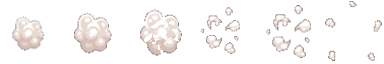
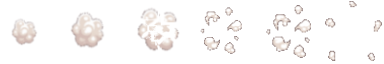
added smoke on higher jump impact

diff --git a/Web/Scripts/app/Demo/MovementController.ts b/Web/Scripts/app/Demo/MovementController.ts
@@ -1,4 +1,4 @@
-import { AnimatedSprite, AnimationSequence } from "app/_engine/AnimatedSprite";
+import { AnimatedSprite } from "app/_engine/AnimatedSprite";
 import { KeyboardMapper } from "app/_engine/KeyboardMapper";
 import { MovementState } from "./MovementState";
 import { WorldP2 } from "./WorldP2";
@@ -8,7 +8,7 @@ export class MovementController {
 
     private readonly ANIMATION_FPS = 10;
     private readonly VELOCITY = 150;
-    private readonly JUMP_FORCE = 17000;
+    private readonly JUMP_FORCE = 16000;
     private nextJumpAllowed: number = 0;
 
     private world: WorldP2;
@@ -17,6 +17,7 @@ export class MovementController {
     private kbd = new KeyboardMapper();
 
     private isRunning = false;
+    private isJumping = false;
 
     constructor(world: WorldP2, hero: AnimatedSprite) {
         this.world = world;
@@ -24,11 +25,11 @@ export class MovementController {
     }
 
     public get IsJumping() {
-        return Math.abs(this.world.player.velocity[1]) > 0.001 && this.world.playerContacts.length === 0;
+        return this.isJumping;
     }
 
     public get CanJump(): boolean {
-        return !this.IsJumping && this.nextJumpAllowed < performance.now();
+        return !this.isJumping && this.nextJumpAllowed < performance.now();
     }
 
     public get IsRunning() {
@@ -39,28 +40,15 @@ export class MovementController {
         return this.movementState;
     }
 
-    public MovementVelocity(): number {
-        var direction = 0;
-        if (this.movementState === MovementState.Left || this.movementState === MovementState.JumpLeft) {
-            direction = -1;
-        } else if (this.movementState === MovementState.Right || this.movementState === MovementState.JumpRight) {
-            direction = 1;
-        }
-
-        var velocity = direction * this.VELOCITY * (this.IsRunning ? 2 : 1.0);
-        return velocity;
-    }
-    
-
     public StartJump(direction: MovementState.JumpLeft | MovementState.JumpRight | MovementState.JumpUp): void {
         var forceVector: Array<number>;
 
         if (direction === MovementState.JumpUp) {
             forceVector = [0, this.JUMP_FORCE];
         } else if (direction === MovementState.JumpLeft) {
-            forceVector = [-this.JUMP_FORCE * 0.15, this.JUMP_FORCE];
+            forceVector = [-this.JUMP_FORCE * 0.125, this.JUMP_FORCE];
         } else if (direction === MovementState.JumpRight) {
-            forceVector = [this.JUMP_FORCE * 0.15, this.JUMP_FORCE];
+            forceVector = [this.JUMP_FORCE * 0.125, this.JUMP_FORCE];
         }
         this.world.player.applyImpulse(forceVector);
         this.nextJumpAllowed = performance.now() + 450;
@@ -78,20 +66,16 @@ export class MovementController {
         const KEY_UP: number = 38;
         const SPACE: number = 32;
 
+        this.isJumping = Math.abs(this.world.player.velocity[1]) > 0.001 && this.world.playerContacts.length === 0;
 
         //  no movement while jumping
-        if (this.IsJumping) {
+        if (this.isJumping) {
             //console.log("isJumping!");
             return;
         } else {
             //  calculate the horizontal velocity
-            var v = this.MovementVelocity();
+            var v = this.calcMovementVelocity();
             this.world.player.velocity[0] = v;
-
-            //  if we where jumping check if jump has ended
-            if (this.movementState > MovementState.Idle) {
-                console.log("jup end!");
-            }
         }
 
         var newState: MovementState = MovementState.Idle;
@@ -159,5 +143,17 @@ export class MovementController {
         //  update new states
         this.movementState = newState;
         this.isRunning = newIsRunning;
+    }
+
+    private calcMovementVelocity(): number {
+        var direction = 0;
+        if (this.movementState === MovementState.Left || this.movementState === MovementState.JumpLeft) {
+            direction = -1;
+        } else if (this.movementState === MovementState.Right || this.movementState === MovementState.JumpRight) {
+            direction = 1;
+        }
+
+        var velocity = direction * this.VELOCITY * (this.IsRunning ? 2 : 1.0);
+        return velocity;
     }
 }

diff --git a/Web/Scripts/app/Demo/WorldP2.ts b/Web/Scripts/app/Demo/WorldP2.ts
@@ -70,7 +70,7 @@ export class WorldP2 {
         this.world.solver.iterations = 25;
         //this.world.solver.tolerance = 0.00002;
         this.world.on("beginContact", this.beginContact, this);
-        this.world.on("endContact", this.endContact, this);
+        this.world.on("endContact", this.endContact, this);        
     }
 
     /**
@@ -78,8 +78,9 @@ export class WorldP2 {
      * @param eventName
      * @param handler
      */
-    public on(eventName: string, handler: any) {
-        this.world.on(eventName, handler, this);
+    public on(eventName: string, handler: any, context?: any) {
+        context = context || this;
+        this.world.on(eventName, handler, context);
     }
      
     /**
@@ -190,13 +191,15 @@ export class WorldP2 {
         //  check for player contacts (but only with dynamic bodies)
         if (this.player === evt.bodyA) {
             //console.log("beginContact: ", evt.bodyB, this.player);
-            console.log("contact velocity: " + this.player.velocity[0] + ", " + this.player.velocity[1]);
+            //console.log("contact velocity: " + this.player.velocity[0] + ", " + this.player.velocity[1]);
             this.playerBodyContacts.push(evt.bodyB);
+            this.world.emit({ type: "playerContact", velocity: this.player.velocity, body: evt.bodyB });
             return;
         } else if (this.player === evt.bodyB) {
             //console.log("beginContact: ", evt.bodyA, this.player);
-            console.log("contact velocity: " + this.player.velocity[0] + ", " + this.player.velocity[1]);
+            //console.log("contact velocity: " + this.player.velocity[0] + ", " + this.player.velocity[1]);
             this.playerBodyContacts.push(evt.bodyA);
+            this.world.emit({ type: "playerContact", velocity: this.player.velocity, body: evt.bodyB });
             return;
         }
 

diff --git a/Web/Scripts/app/Demo/InGameScene.ts b/Web/Scripts/app/Demo/InGameScene.ts
@@ -191,6 +191,7 @@ export class InGameScene extends Scene {
         //--------------------------------------
         this.heroPosition.set(-250, 36);
         this.wp2 = new WorldP2(this.heroPosition);
+        this.wp2.on("playerContact", this.onPlayerContact, this);
         this.movementCtrl = new MovementController(this.wp2, this.hero);
 
         //--------------------------------------
@@ -214,6 +215,22 @@ export class InGameScene extends Scene {
             plx.SetViewPortX(0);
             plx.SetViewPortX(this.heroPosition.x + 1);
         });
+    }
+
+    private onPlayerContact(event: any) {
+        if (Math.abs(event.velocity[1]) > 425) {
+            var smoke = new AnimatedSprite();
+            smoke.addAnimations(new AnimationSequence("smoke", "assets/images/effects/jump_smoke.png", [0,1,2,3,4,5], this.HERO_FRAME_SIZE, this.HERO_FRAME_SIZE));
+            smoke.Anchor = new PIXI.Point(0.5, 0.5);
+            smoke.x = this.heroPosition.x;
+            smoke.y = this.heroPosition.y - this.HERO_FRAME_SIZE/2;
+            smoke.Loop = false;
+            smoke.OnComplete = () => this.worldContainer.removeChild(smoke);
+            smoke.alpha = 0.7;
+            smoke.rotation = Math.random() * Math.PI;
+            this.worldContainer.addChild(smoke);
+            smoke.PlayAnimation("smoke", 5);
+        }
     }
 
     /**

diff --git a/Web/Scripts/app/_engine/AnimatedSprite.ts b/Web/Scripts/app/_engine/AnimatedSprite.ts
@@ -28,9 +28,17 @@ export class AnimatedSprite extends PIXI.Container {
             this.createClip(this.currentSequence);
             
             this.Fps = fps || this.Fps;
-            this.clip.play();
+            this.clip.play();            
         }
     } 
+
+    public set OnComplete(cb: () => void) {
+        this.clip.onComplete = cb;
+    }
+
+    public get OnComplete(): () => void {
+        return this.clip.onComplete;
+    }
 
     public Stop() {
         this.clip.stop();
@@ -50,6 +58,13 @@ export class AnimatedSprite extends PIXI.Container {
     public set Anchor(p:PIXI.Point) {
         this.clip.anchor.set(p.x, p.y);
     }
+    public set Loop(isLooping: boolean) {
+        this.clip.loop = isLooping;
+    }
+    public get Loop(): boolean {
+        return this.clip.loop;
+    }
+
     private resetAnimation() {
         if(this.clip)
             this.clip.stop();        

diff --git a/Web/Scripts/app/Demo/LoaderScene.ts b/Web/Scripts/app/Demo/LoaderScene.ts
@@ -51,6 +51,8 @@ export class LoaderScene extends Scene {
             "assets/images/Gui/Panel_256x128.png",
             "assets/images/Gui/Panel_256x256.png",
 
+            "assets/images/effects/jump_smoke.png",
+
             "assets/images/Npcs/bahamut.png",
             "assets/images/Npcs/barrissoffee.png",
             "assets/images/Npcs/ifrit.png",
